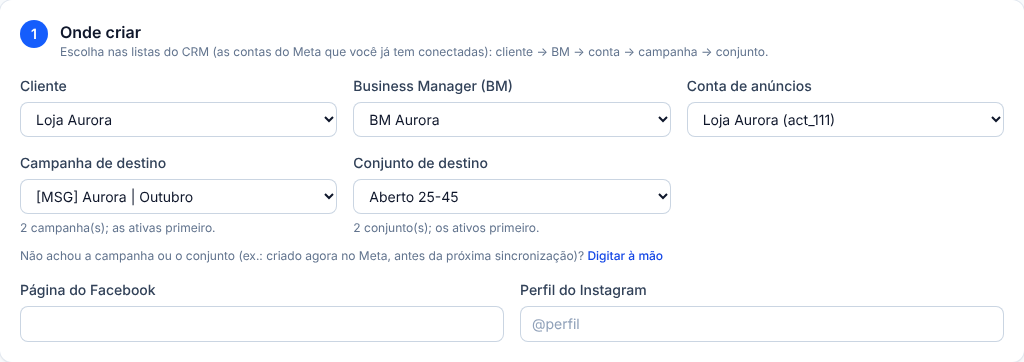
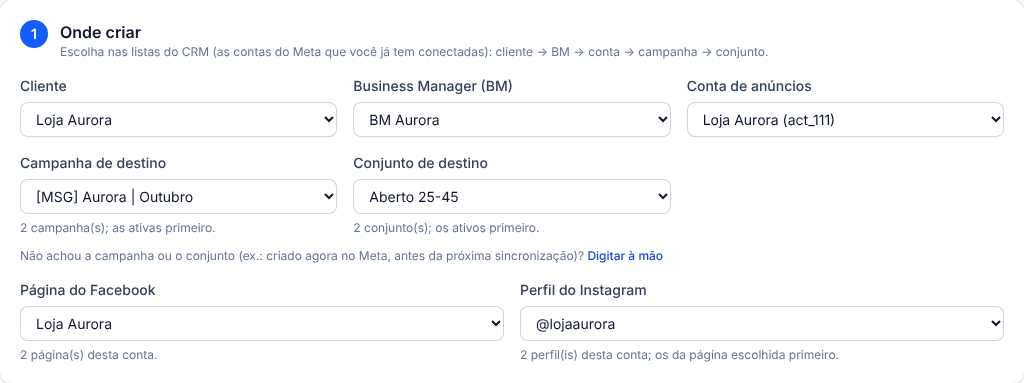
Criador de Anúncios: página do Facebook e Instagram da conta em listas (com IDs no pedido)
Claude-Session: https://claude.ai/code/session_01A5ivfSd6VbkwRJFYwrhVNk

diff --git a/apps/web/src/features/ads-builder/AdsBuilderPage.tsx b/apps/web/src/features/ads-builder/AdsBuilderPage.tsx
@@ -15,7 +15,7 @@ import { cn } from "@/lib/cn.ts";
 import { errorMessage } from "@/lib/errors.ts";
 import { formatDateTime } from "@/lib/format.ts";
 import {
-  type AdsPedido, contaLabel, useAdSetOptions, useAddAdsPedido, useAdsModelos, useAdsPedidos, useArchiveAdsModelo, useCampaignOptions, useMetaAccounts,
+  type AdsPedido, contaLabel, type MetaAsset, useAccountAssets, useAdSetOptions, useAddAdsPedido, useAdsModelos, useAdsPedidos, useArchiveAdsModelo, useCampaignOptions, useMetaAccounts,
   useSaveAdsModelo,
 } from "./api.ts";
 
@@ -91,7 +91,8 @@ function CopyButton({ text, label = "Copiar", testId }: { text: string; label?: 
 // ---------------------------------------------------------------- 42.1: onde criar (listas do CRM em cascata)
 
 const STATUS_SUFIXO: Record<string, string> = { pausada: " (pausada)", encerrada: " (encerrada)", erro: " (com erro)", desconhecida: "" };
-const vazio = { conta_ref: "", conta: "", campanha_ref: "", campanha: "", campanha_meta_id: "", conjunto_ref: "", conjunto: "", conjunto_meta_id: "" };
+const vazio = { conta_ref: "", conta: "", campanha_ref: "", campanha: "", campanha_meta_id: "", conjunto_ref: "", conjunto: "", conjunto_meta_id: "",
+  pagina: "", pagina_id: "", instagram: "", instagram_id: "" };
 
 function OndeCriar({ form, set }: { form: AdsBuilderForm; set: (patch: Partial<AdsBuilderForm>) => void }) {
   const contas = useMetaAccounts();
@@ -180,6 +181,63 @@ function OndeCriar({ form, set }: { form: AdsBuilderForm; set: (patch: Partial<A
   );
 }
 
+/** 42.1: página do Facebook e perfil do Instagram da conta escolhida (o CRM guarda ao vincular a conta). */
+function PaginaInstagram({ form, set }: { form: AdsBuilderForm; set: (patch: Partial<AdsBuilderForm>) => void }) {
+  const ativos = useAccountAssets(form.conta_ref || null);
+  const paginas = (ativos.data ?? []).filter((a) => a.asset_type === "page");
+  const igs = (ativos.data ?? []).filter((a) => a.asset_type === "instagram");
+  const igDaPagina = (pageId: string) => igs.filter((i) => i.parent_external_id === pageId);
+  const nome = (a: MetaAsset) => a.name ?? `ID ${a.external_id}`;
+  function escolherPagina(extId: string) {
+    const p = paginas.find((x) => x.external_id === extId);
+    const ig = igDaPagina(extId);
+    set({ pagina: p ? nome(p) : "", pagina_id: p?.external_id ?? "",
+      ...(ig.length === 1 ? { instagram: nome(ig[0]), instagram_id: ig[0].external_id } : { instagram: "", instagram_id: "" }) });
+  }
+  // Conta com uma só página: já vem escolhida (com o Instagram dela)
+  const autoKey = useRef("");
+  useEffect(() => {
+    if (!form.conta_ref || !ativos.data || autoKey.current === form.conta_ref) return;
+    autoKey.current = form.conta_ref;
+    if (!form.pagina_id && paginas.length === 1) escolherPagina(paginas[0].external_id);
+  });
+
+  const manual = !form.conta_ref || (ativos.isSuccess && paginas.length === 0 && igs.length === 0);
+  if (manual) {
+    return (
+      <div className="space-y-1.5">
+        <div className="grid gap-4 sm:grid-cols-2">
+          <Field label="Página do Facebook">{(id) => <Input id={id} value={form.pagina} maxLength={200} onChange={(e) => set({ pagina: e.target.value, pagina_id: "" })} />}</Field>
+          <Field label="Perfil do Instagram">{(id) => <Input id={id} value={form.instagram} maxLength={200} placeholder="@perfil" onChange={(e) => set({ instagram: e.target.value, instagram_id: "" })} />}</Field>
+        </div>
+        {form.conta_ref && <p className="text-xs text-slate-500">Esta conta não tem páginas nem perfis registrados no CRM: digite os nomes.</p>}
+      </div>
+    );
+  }
+  const ligados = form.pagina_id ? igDaPagina(form.pagina_id) : [];
+  const outros = igs.filter((i) => !ligados.includes(i));
+  return (
+    <div className="grid gap-4 sm:grid-cols-2">
+      <Field label="Página do Facebook" hint={ativos.isSuccess ? `${paginas.length} página(s) desta conta.` : undefined}>{(id) => (
+        <Select id={id} value={form.pagina_id} disabled={ativos.isLoading} onChange={(e) => escolherPagina(e.target.value)}>
+          <option value="">{ativos.isLoading ? "Carregando…" : "Escolha…"}</option>
+          {paginas.map((p) => <option key={p.id} value={p.external_id}>{nome(p)}</option>)}
+        </Select>
+      )}</Field>
+      <Field label="Perfil do Instagram" hint={ativos.isSuccess ? `${igs.length} perfil(is) desta conta; os da página escolhida primeiro.` : undefined}>{(id) => (
+        <Select id={id} value={form.instagram_id} disabled={ativos.isLoading} onChange={(e) => {
+          const ig = igs.find((x) => x.external_id === e.target.value);
+          set({ instagram: ig ? nome(ig) : "", instagram_id: ig?.external_id ?? "" });
+        }}>
+          <option value="">{ativos.isLoading ? "Carregando…" : "Sem Instagram / escolha…"}</option>
+          {ligados.length > 0 && <optgroup label="Da página escolhida">{ligados.map((i) => <option key={i.id} value={i.external_id}>{nome(i)}</option>)}</optgroup>}
+          {outros.length > 0 && <optgroup label={ligados.length ? "Outros perfis da conta" : "Perfis da conta"}>{outros.map((i) => <option key={i.id} value={i.external_id}>{nome(i)}</option>)}</optgroup>}
+        </Select>
+      )}</Field>
+    </div>
+  );
+}
+
 // ---------------------------------------------------------------- formulário
 
 function Formulario({ form, set, origem, onClearOrigem }: {
@@ -222,10 +280,7 @@ function Formulario({ form, set, origem, onClearOrigem }: {
 
       <Section n={1} title="Onde criar" hint="Escolha nas listas do CRM (as contas do Meta que você já tem conectadas): cliente → BM → conta → campanha → conjunto.">
         <OndeCriar form={form} set={set} />
-        <div className="grid gap-4 sm:grid-cols-2">
-          <Field label="Página do Facebook">{(id) => <Input id={id} value={form.pagina} maxLength={200} onChange={(e) => set({ pagina: e.target.value })} />}</Field>
-          <Field label="Perfil do Instagram">{(id) => <Input id={id} value={form.instagram} maxLength={200} placeholder="@perfil" onChange={(e) => set({ instagram: e.target.value })} />}</Field>
-        </div>
+        <PaginaInstagram form={form} set={set} />
       </Section>
 
       <Section n={2} title="Mídia (Google Drive)">

diff --git a/packages/shared/src/ads/builder.ts b/packages/shared/src/ads/builder.ts
@@ -58,6 +58,9 @@ export interface AdsBuilderForm {
   conjunto_ref: string;
   campanha_meta_id: string;
   conjunto_meta_id: string;
+  /** 42.1: IDs da página e do Instagram escolhidos nas listas da conta. */
+  pagina_id: string;
+  instagram_id: string;
   conta: string;
   campanha: string;
   conjunto: string;
@@ -102,7 +105,7 @@ export function adsBuilderDefaults(hoje = new Date()): AdsBuilderForm {
   const d = new Intl.DateTimeFormat("pt-BR", { timeZone: "America/Sao_Paulo", day: "2-digit", month: "2-digit", year: "numeric" }).format(hoje);
   return {
     tipo: "anuncios",
-    cliente: "", bm: "", conta_ref: "", campanha_ref: "", conjunto_ref: "", campanha_meta_id: "", conjunto_meta_id: "",
+    cliente: "", bm: "", conta_ref: "", campanha_ref: "", conjunto_ref: "", campanha_meta_id: "", conjunto_meta_id: "", pagina_id: "", instagram_id: "",
     conta: "", campanha: "", conjunto: "", pagina: "", instagram: "",
     pastas: [{ link: "", rotulo: "Vídeos verticais", tipo: "video" }],
     padrao_nome_arquivo: ADS_BUILDER_PADRAO_ARQUIVO,
@@ -253,7 +256,7 @@ export function buildAdsPedido(f: AdsBuilderForm): string {
     "",
     f.cliente.trim() || f.bm.trim() ? `Cliente: ${f.cliente.trim() || "—"} | BM: ${f.bm.trim() || "—"}` : null,
     `Conta: ${f.conta.trim()} | Campanha: ${f.campanha.trim()}${f.campanha_meta_id ? ` (ID ${f.campanha_meta_id})` : ""} | Conjunto: ${f.conjunto.trim()}${f.conjunto_meta_id ? ` (ID ${f.conjunto_meta_id})` : ""}`,
-    `Página / Instagram: ${f.pagina.trim() || "—"} / ${f.instagram.trim() || "—"}`,
+    `Página / Instagram: ${f.pagina.trim() || "—"}${f.pagina_id ? ` (ID ${f.pagina_id})` : ""} / ${f.instagram.trim() || "—"}${f.instagram_id ? ` (ID ${f.instagram_id})` : ""}`,
     "",
     "Mídia (Google Drive):",
     ...pastas.map((p, i) => `  ${i + 1}. ${p.rotulo.trim() || "Pasta"} (${p.tipo === "video" ? "vídeo" : "imagem"}): ${p.link.trim()}`),

diff --git a/apps/web/src/features/ads-builder/api.ts b/apps/web/src/features/ads-builder/api.ts
@@ -160,3 +160,25 @@ export function useAdSetOptions(campaignId: string | null) {
     },
   });
 }
+
+export interface MetaAsset {
+  id: string;
+  asset_type: "page" | "instagram";
+  external_id: string;
+  name: string | null;
+  parent_external_id: string | null;
+}
+
+/** Páginas do Facebook e perfis do Instagram da conta (o CRM atualiza ao vincular a conta). */
+export function useAccountAssets(accountId: string | null) {
+  return useQuery({
+    queryKey: [...KEY, "ativos", accountId],
+    enabled: !!accountId,
+    staleTime: 5 * 60_000,
+    queryFn: async () => {
+      const { data, error } = await supabase.from("ad_account_assets").select("id, asset_type, external_id, name, parent_external_id").eq("ad_account_id", accountId!).order("name");
+      if (error) throw new FriendlyError(friendlyDbError(error, "Não conseguimos carregar as páginas e perfis do Instagram."));
+      return (data ?? []) as MetaAsset[];
+    },
+  });
+}

diff --git a/apps/web/src/demo/mockBackend.js b/apps/web/src/demo/mockBackend.js
@@ -1957,6 +1957,11 @@ export function createMockBackend(db, { role = "admin", password = null, userId 
       }));
     }
 
+    // Páginas e Instagram das contas (Etapa 42.1: Criador de Anúncios)
+    if (url.includes("/rest/v1/ad_account_assets")) {
+      const accountId = eqParam(url, "ad_account_id");
+      return res(200, (db.adAccountAssets ?? []).filter((x) => !accountId || x.ad_account_id === accountId).sort((a, b) => (a.name ?? "").localeCompare(b.name ?? "")));
+    }
     if (url.includes("/rest/v1/ad_groups")) {
       const id = eqParam(url, "id");
       const campaignId = eqParam(url, "campaign_id");

diff --git a/packages/shared/src/ads/builder.test.ts b/packages/shared/src/ads/builder.test.ts
@@ -70,6 +70,7 @@ describe("pedido gerado", () => {
     expect(t).toContain("Cliente: Loja Aurora | BM: BM Aurora");
     expect(t).toContain("Campanha: [MSG] Aurora | Out (ID 120001) | Conjunto: Aberto 25-45 (ID 120009)");
     expect(buildAdsPedido(fill())).not.toContain("Cliente:");
+    expect(buildAdsPedido(fill({ pagina_id: "555", instagram_id: "777" }))).toContain("Página / Instagram: Loja Aurora (ID 555) / @lojaaurora (ID 777)");
   });
   it("IA ligada e status ATIVO aparecem destacados", () => {
     const t = buildAdsPedido(fill({ ia_ligados: ["musica"], status: "ATIVO" }));

diff --git a/apps/web/src/demo/mockAdsBuilder.js b/apps/web/src/demo/mockAdsBuilder.js
@@ -3,7 +3,7 @@
 const findSecret = (text) => /EAA[A-Za-z0-9]{20,}|eyJ[A-Za-z0-9_-]{10,}\.[A-Za-z0-9_-]{10,}\.|(senha|password|token|secret|api[_-]?key)\s*[:=]\s*\S{4,}/i.test(text);
 
 export function seedAdsBuilder() {
-  return { adsModelos: [], adsPedidos: [] };
+  return { adsModelos: [], adsPedidos: [], adAccountAssets: [] };
 }
 
 export function handleAdsBuilder({ db, url, parse, userId, role, res }) {

diff --git a/docs/etapa-42-criador-de-anuncios/42-CRIADOR-DE-ANUNCIOS.md b/docs/etapa-42-criador-de-anuncios/42-CRIADOR-DE-ANUNCIOS.md
@@ -128,7 +128,11 @@ Depois, tirar o item do menu.
   - Cliente com uma só BM e uma só conta já vem com tudo escolhido.
   - Trocar o cliente, a BM ou a conta limpa o que vem depois.
   - Campanhas e conjuntos ativos aparecem primeiro; os pausados ou encerrados vêm marcados.
-- **O pedido leva também** "Cliente: … | BM: …" e o **ID do Meta** da campanha e do conjunto, assim o Claude acha exatamente onde criar.
+- **Página do Facebook e perfil do Instagram em listas:** são os da conta escolhida, que o CRM guarda ao vincular a conta (`ad_account_assets`). Hoje 29 das 31 contas têm página e 28 têm Instagram.
+  - Conta com uma só página: a página e o Instagram ligado a ela já vêm escolhidos.
+  - Escolher a página escolhe junto o Instagram dela; os outros perfis da conta continuam na lista.
+  - Conta sem página registrada: os campos voltam a ser de digitar.
+- **O pedido leva também** "Cliente: … | BM: …" e o **ID do Meta** da campanha, do conjunto, da página e do Instagram, assim o Claude acha exatamente onde criar.
 - **"Digitar à mão":** para campanha ou conjunto criados agora no Meta, antes da próxima sincronização. Mantém o que já estava escolhido.
 - **Duplicar do histórico** volta com as listas preenchidas: troque só o conjunto ou a campanha.
 - **Sem mudança no banco.** Os campos novos (cliente, BM e IDs) ficam dentro dos dados do pedido e do modelo.
